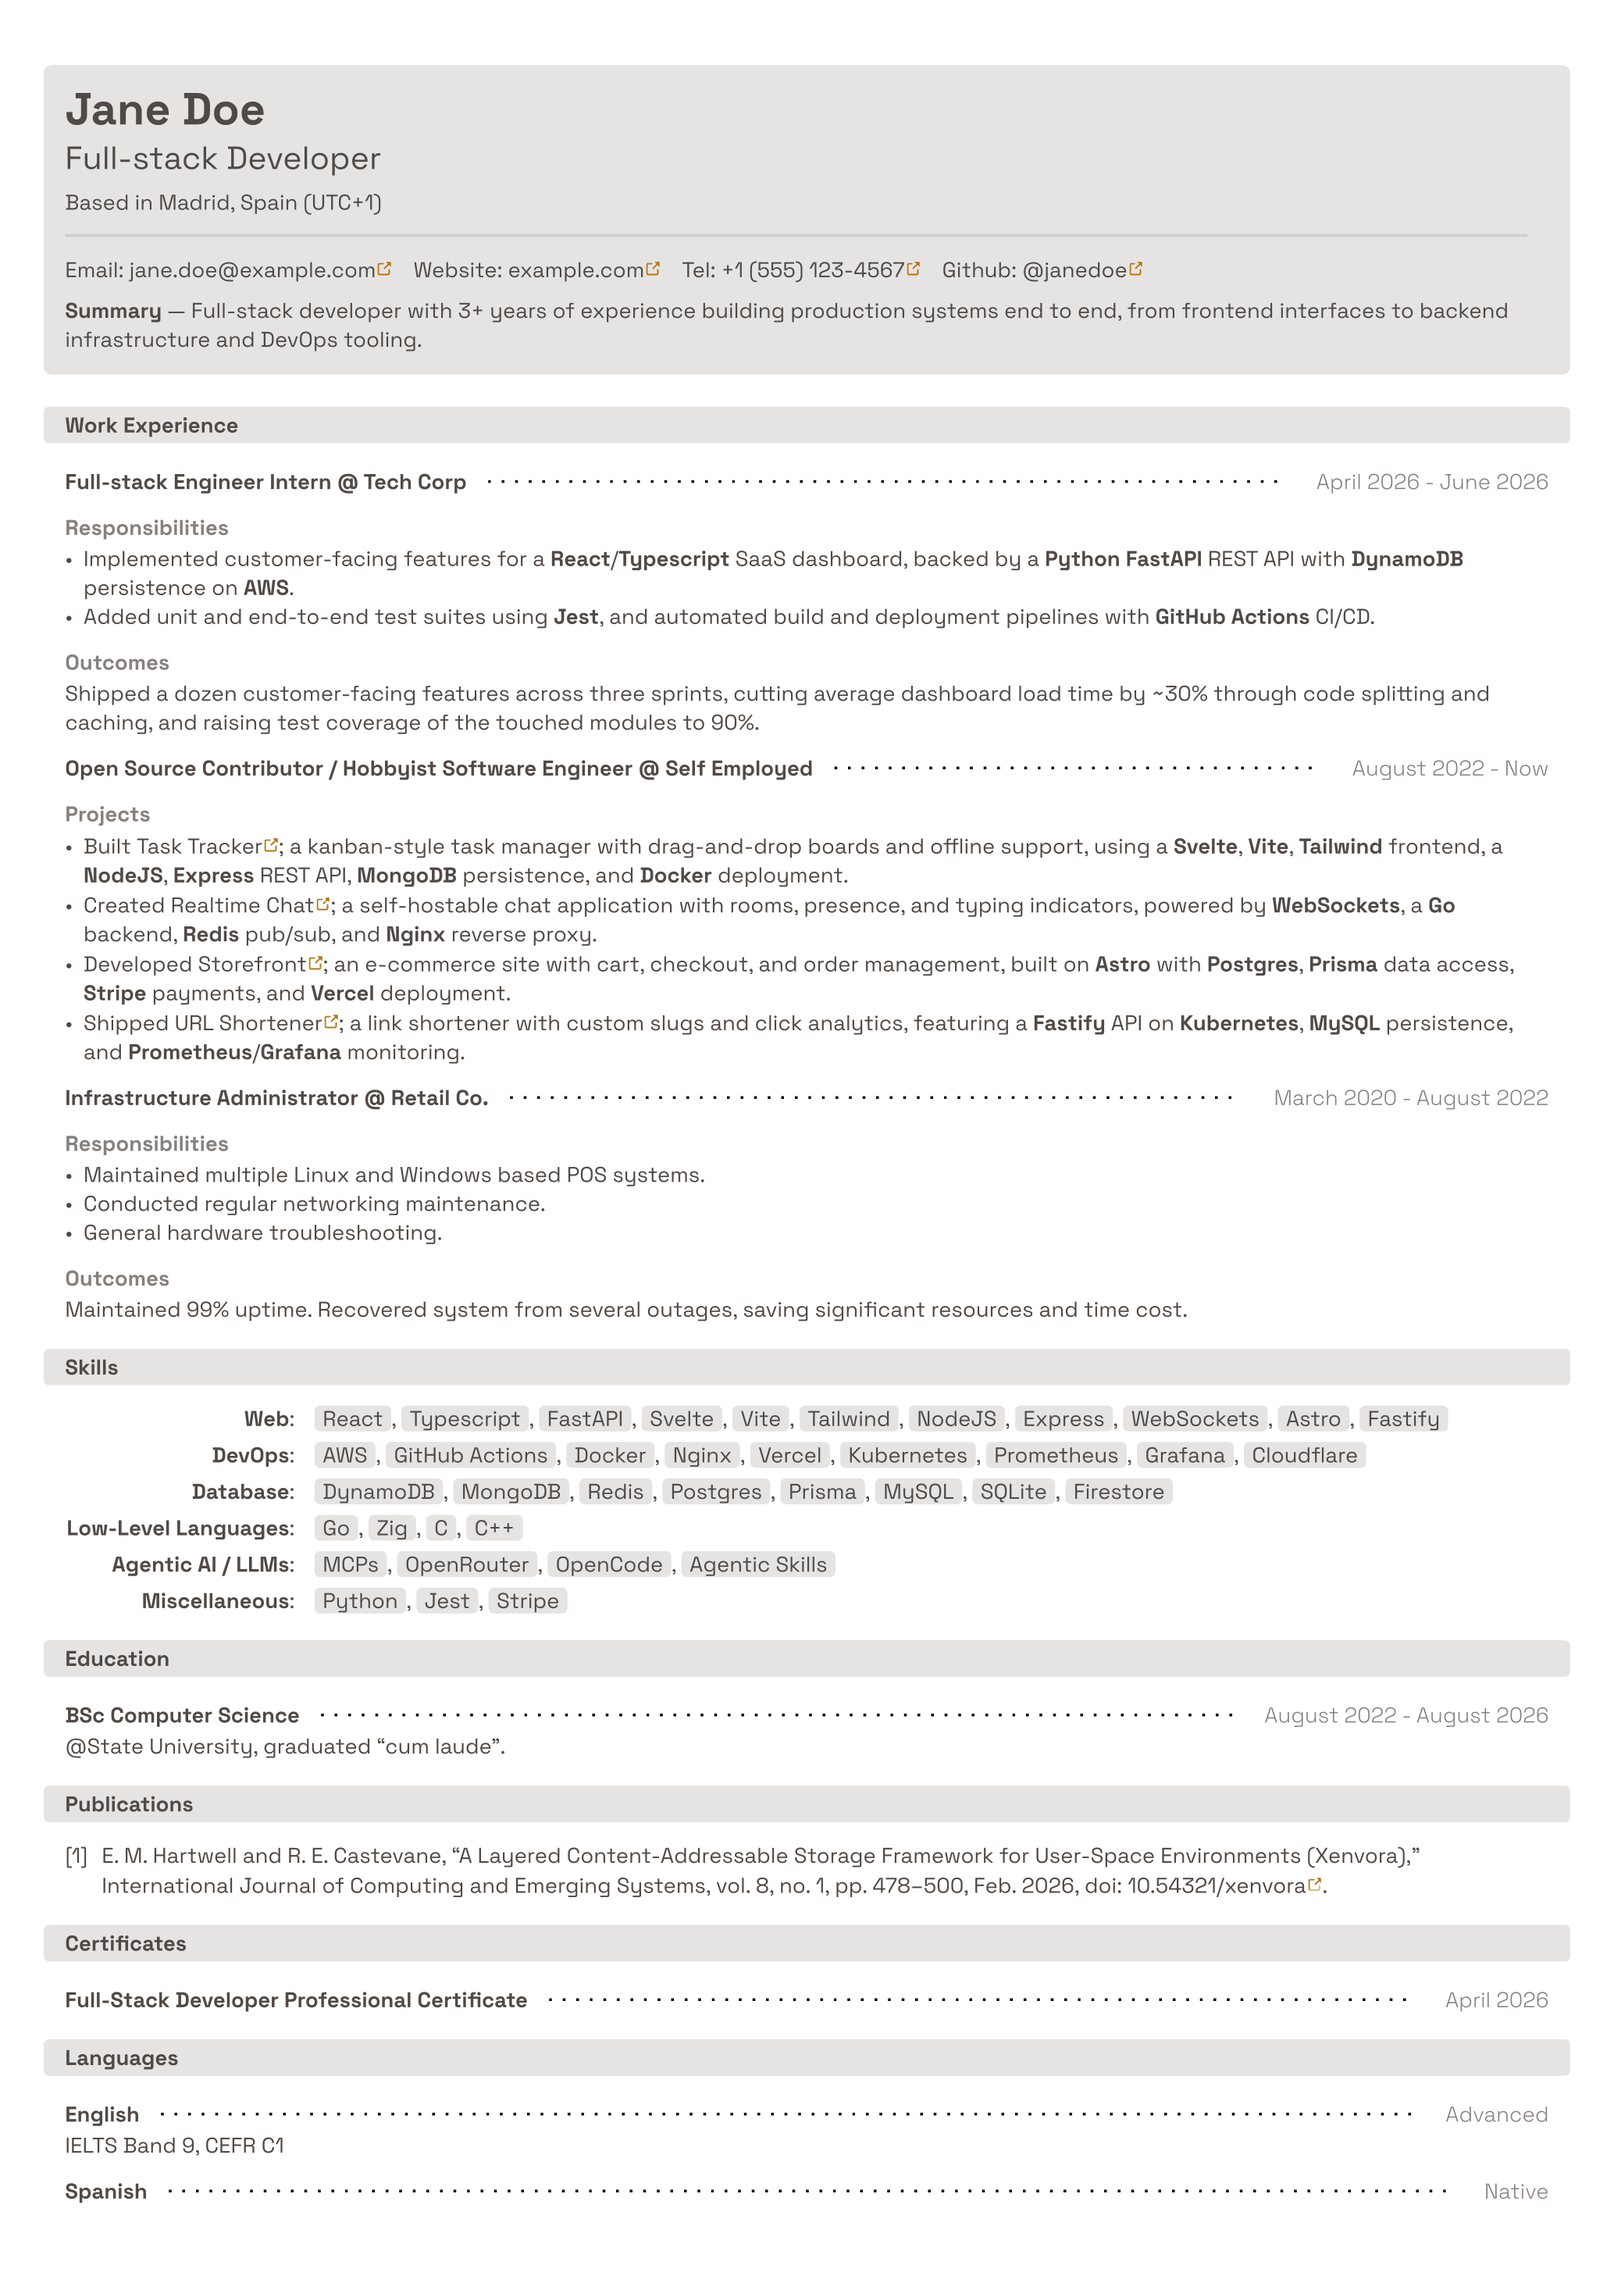
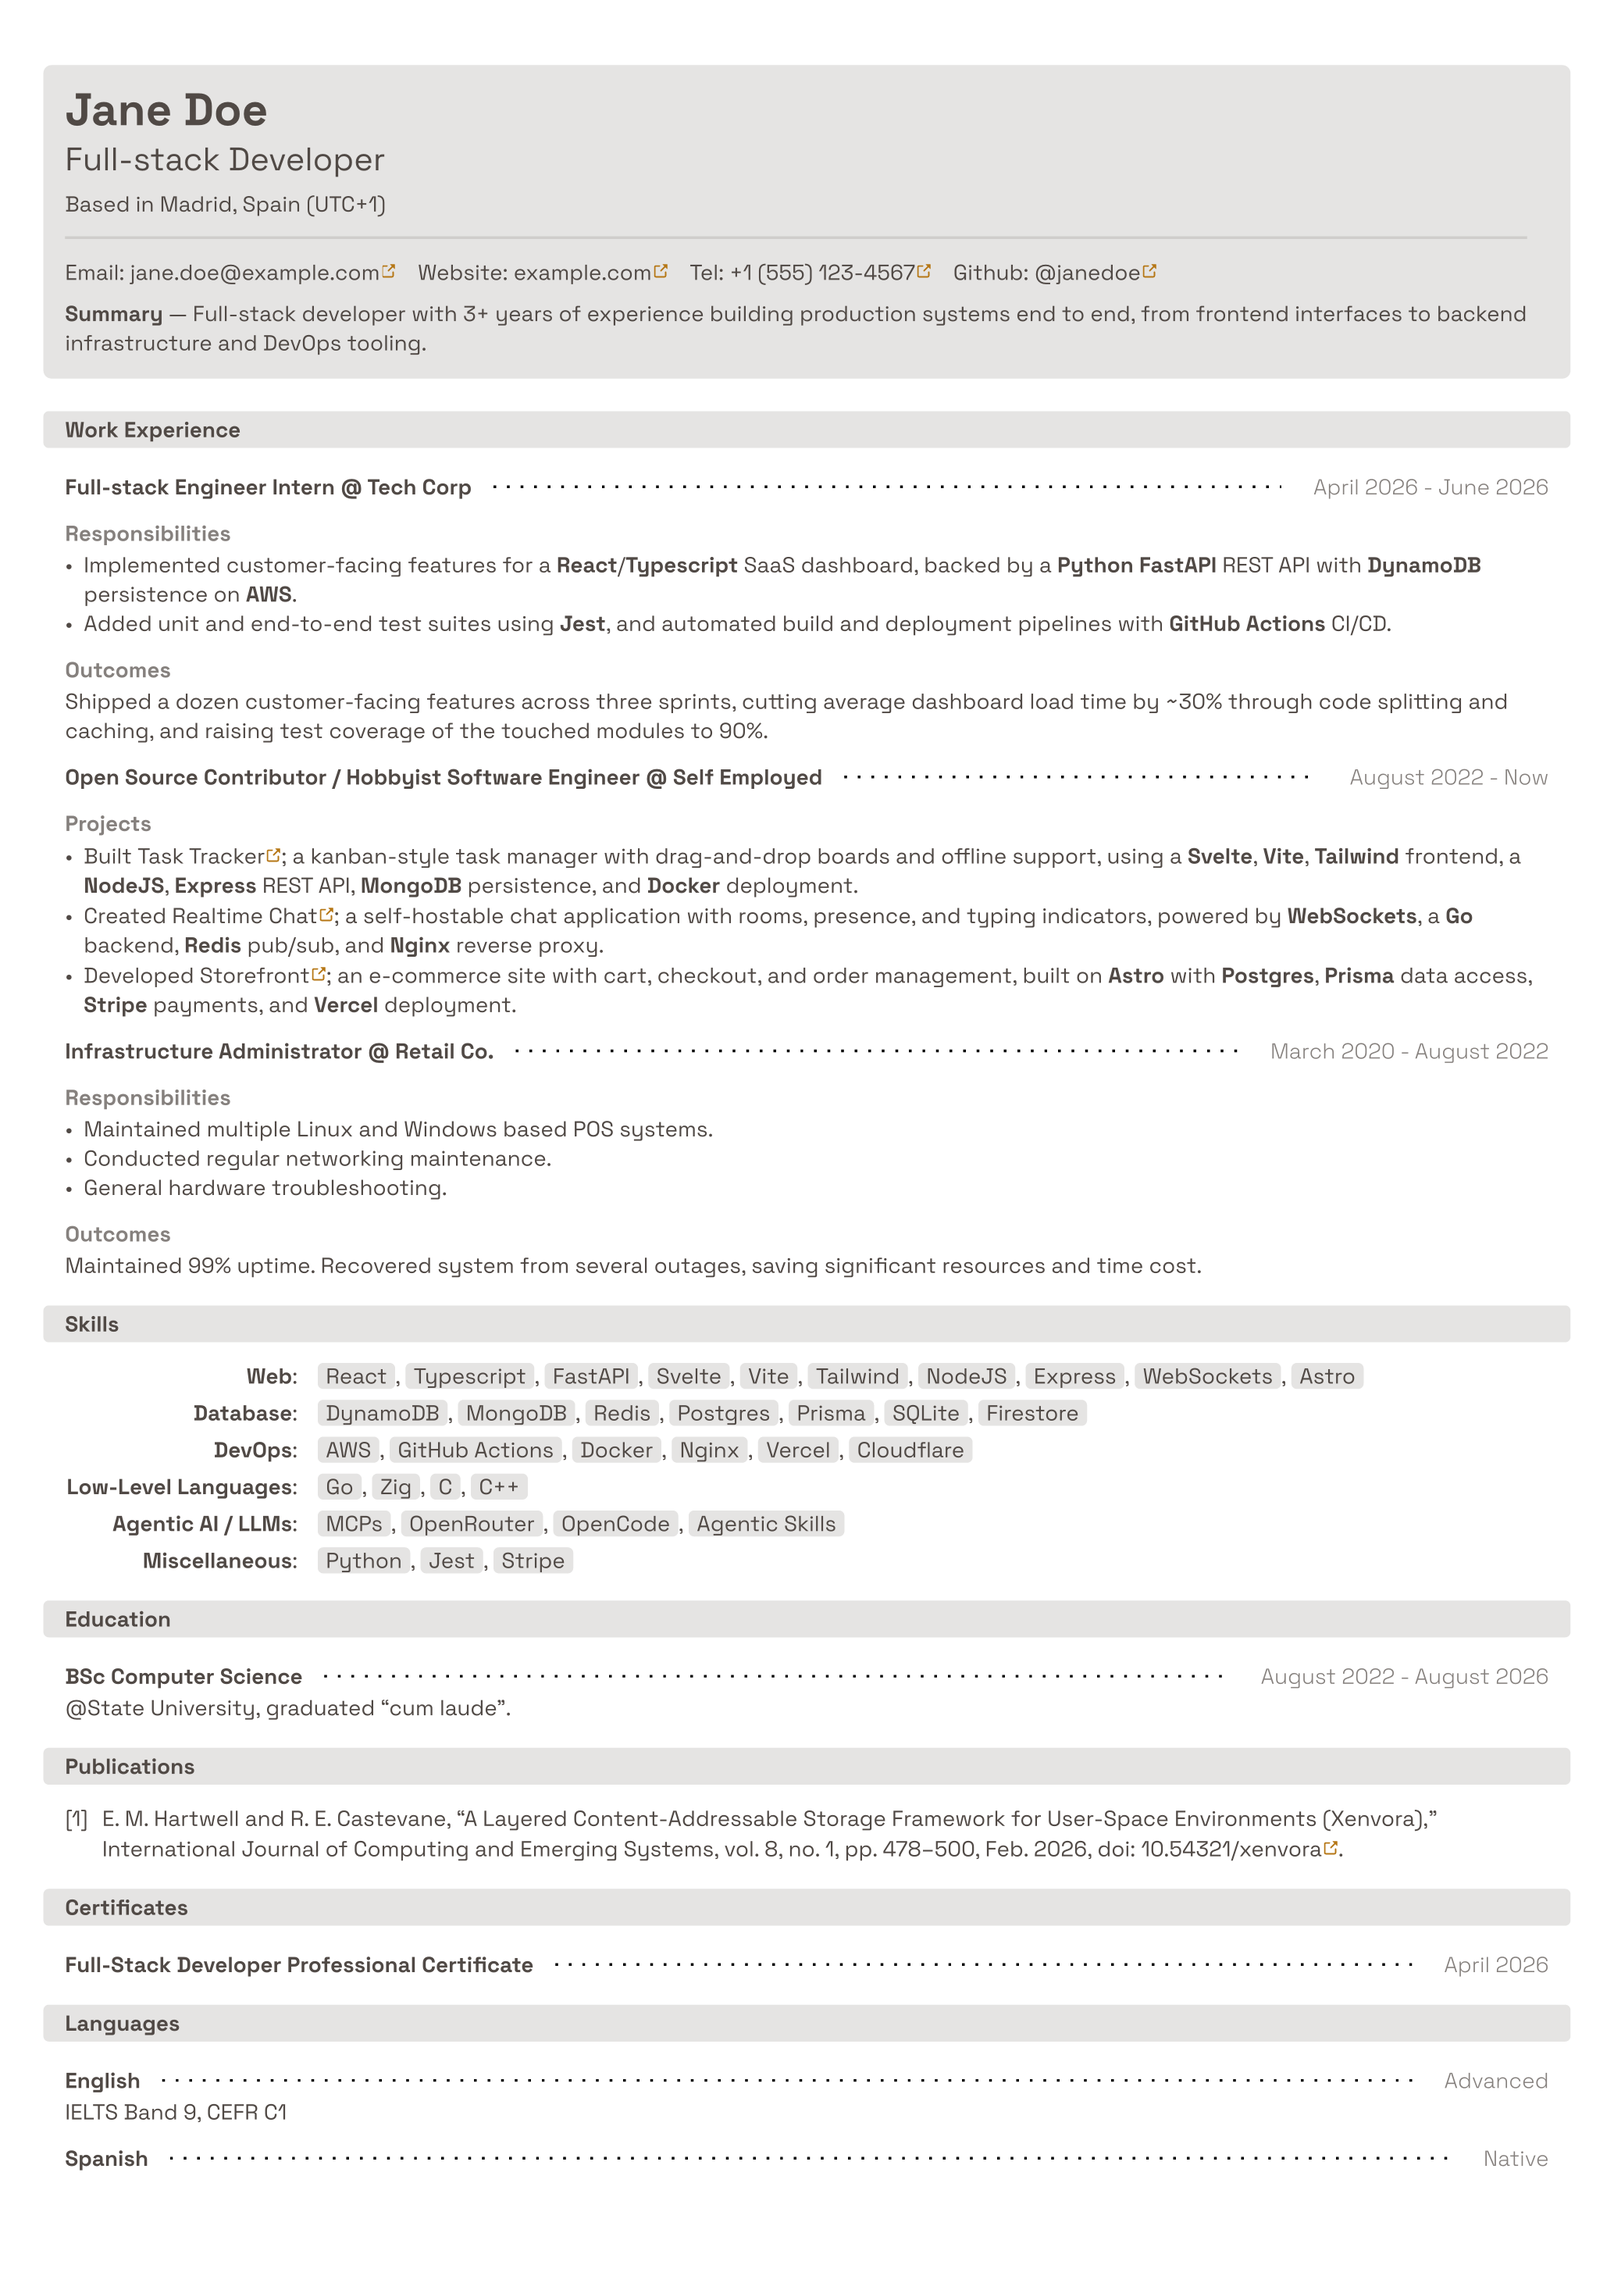
docs: thubmnails

diff --git a/README.md b/README.md
@@ -6,7 +6,9 @@ Resume content is written as plain, machine-parseable text (no multi-column
 layout tricks), while still looking polished — rounded section bars, dotted rule
 separators, pill-style skill chips, and optional profile photo.
 
-![Thumbnail](assets/thumbnail.png)
+| Without profile image                | With profile image                                       |
+| ------------------------------------ | -------------------------------------------------------- |
+| ![Main thumbnail](./assets/main.png) | ![With profile image thumbnail](./assets/with-image.png) |
 
 ## Features
 
